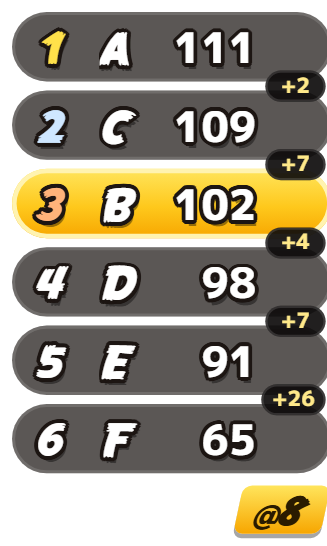
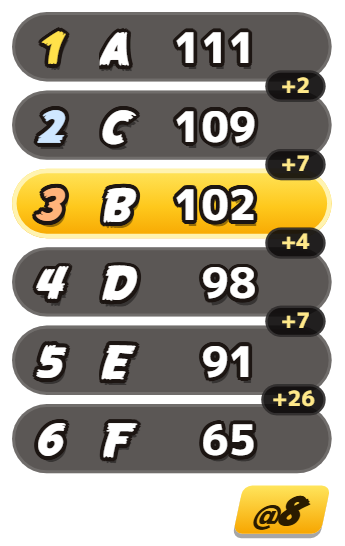
list overlay pic fix

diff --git a/build/make_docs.py b/build/make_docs.py
@@ -83,7 +83,7 @@ def main():
     controller.settings["background"] = "dark"
     subprocess.run(base + ["--window-size=886,118", "--default-background-color=00000000",
                            f"--screenshot={docs / 'overlay.png'}", url + "/overlay?once&layout=bar"], check=True, timeout=60)
-    subprocess.run(base + ["--window-size=218,364", "--default-background-color=00000000",
+    subprocess.run(base + ["--window-size=230,364", "--default-background-color=00000000",
                            f"--screenshot={docs / 'overlay-list.png'}", url + "/overlay?once&layout=list"], check=True, timeout=60)
     controller.close()
     stale = [p.name for p in sorted(docs.glob("*.png")) if p.stat().st_mtime < started]
